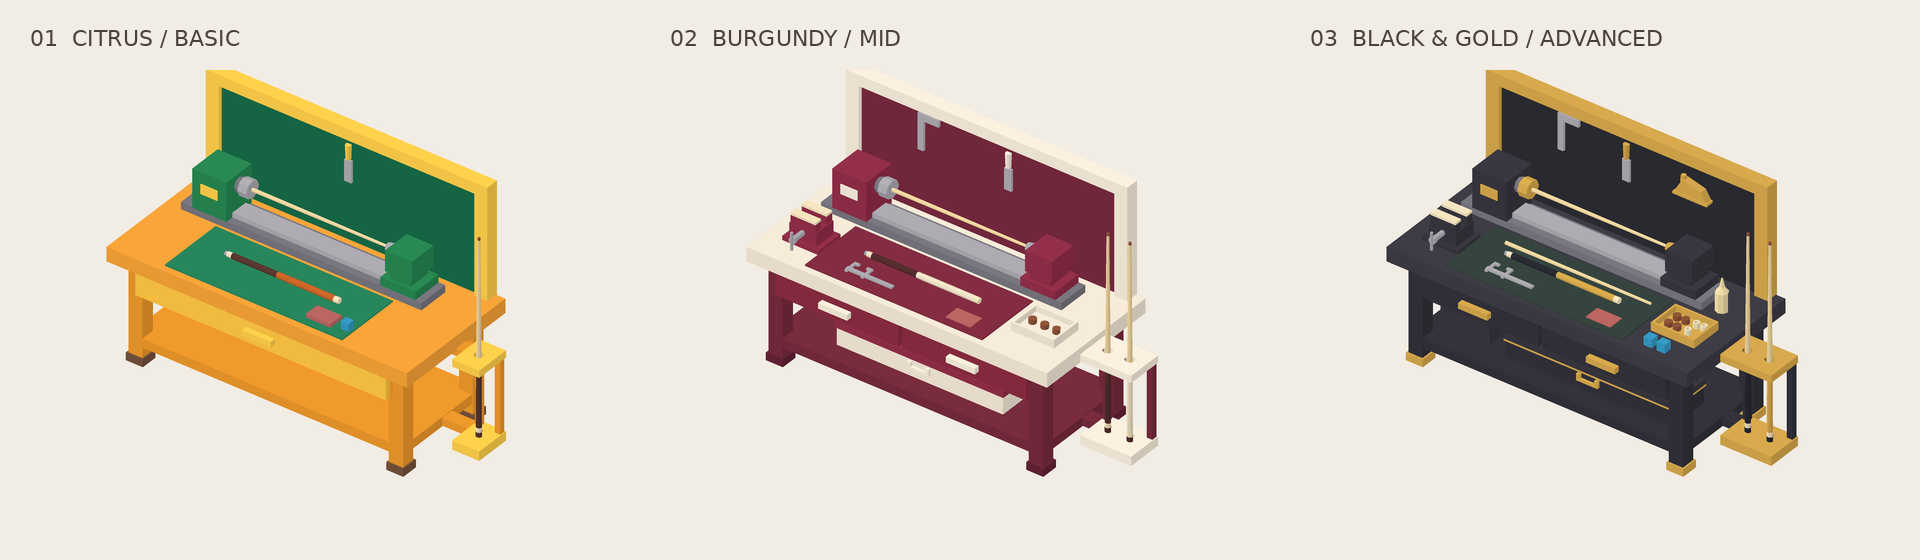
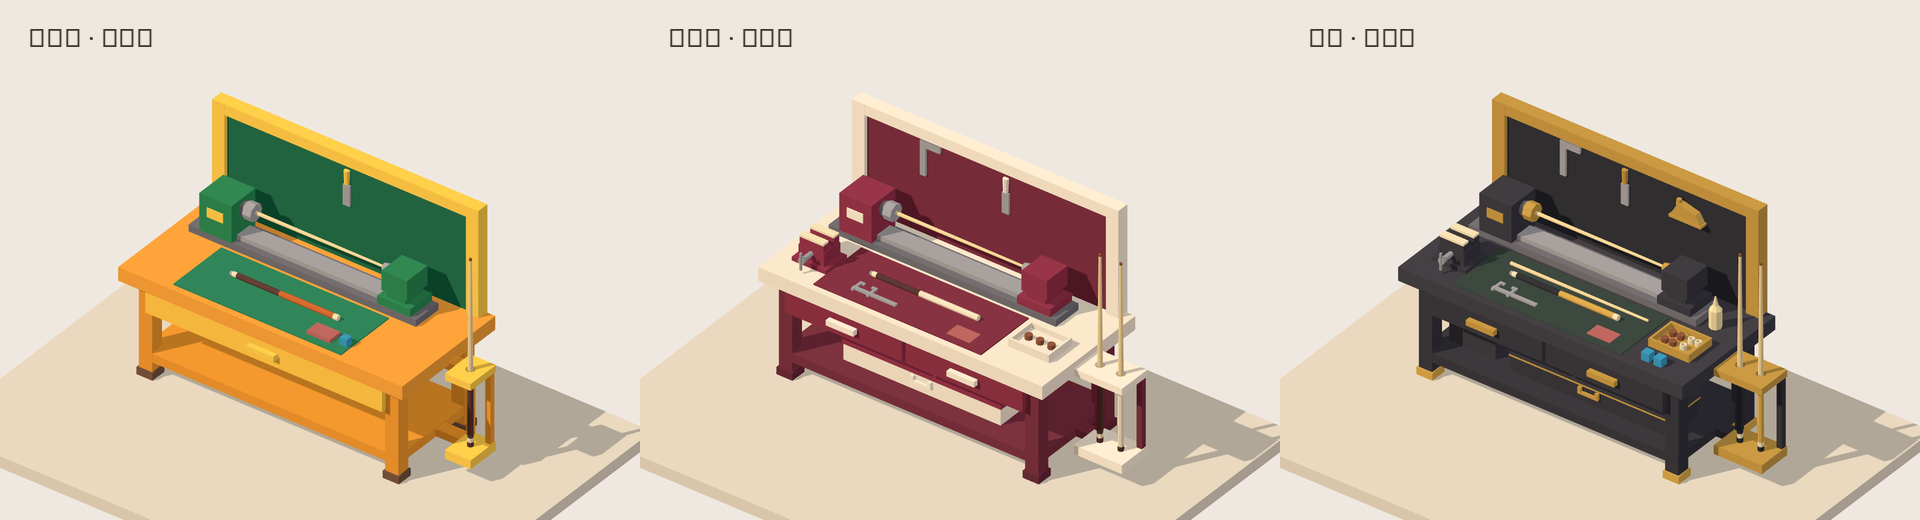
Record verified WebGL views and mobile workshop review

diff --git a/docs/CUE_WORKSHOPS.md b/docs/CUE_WORKSHOPS.md
@@ -2,9 +2,9 @@
 
 根据本次确认的三张低面概念图制作，使用 Three.js / TypeScript 几何体直接构建，没有把概念图贴在平面上，也不依赖外部模型或纹理服务。
 
-![实际网格的三款对照预览](previews/cue-workshops.png)
+![三款工作台的实际 WebGL 截图](previews/cue-workshops.png)
 
-上图直接读取工作台的实际三角网格，通过软件深度缓冲投影生成，仅用于核对造型、遮挡和配色；不代表 WebGL 运行效果或完整界面验收。另已生成六个机位共 18 张临时几何预览，修正了背板与桌面、侧框之间的细缝。
+上图为运行页面的实际 WebGL 截图，使用最终初始轴测机位。背板与桌面、侧框保持闭合衔接，桌脚与地台接触。
 
 ## 入口与复杂度
 
@@ -37,8 +37,10 @@
 
 ## 验证
 
-`tests/cue-workshop.test.ts` 检查三档几何有效性、严格递增且不超过 2,500 面的预算、车床同轴和端点接触、杆架孔/套箍孔的射线通透性、接地和承托关系，以及碰撞和绕行路线。加入后全仓 80 项测试与生产构建通过。
+`tests/cue-workshop.test.ts` 检查三档几何有效性、严格递增且不超过 2,500 面的预算、车床同轴和端点接触、杆架孔/套箍孔的射线通透性、接地和承托关系、碰撞和绕行路线，以及桌面/手机初始镜头下每个顶点都在画面内。加入后全仓 81 项测试与生产构建通过。
 
-当前受控预览浏览器不支持 WebGL，无法在该浏览器内验收。新增 `Cue workshop visual review` 工作流，在 GitHub Actions 的 Chromium/SwiftShader 环境生成三款的轴测、正面、背面、俯视、车床近景、杆架近景，另有三张手机竖屏和一张黑金夜间界面图，共 22 张。截图和错误报告保存在该次运行的 `cue-workshop-review` 临时构建产物，待检查后记录结果。
+`Cue workshop visual review` 工作流在 GitHub Actions 的 Chromium/SwiftShader 环境生成三款的轴测、正面、背面、俯视、车床近景、杆架近景，另有三张手机竖屏和一张黑金夜间界面图，共 22 张。[最终复查](https://github.com/GioGyan90/RoomBoy/actions/runs/42807582362)通过，浏览器错误列表为空，已逐组检查画面；原始截图保存在该次运行的 `cue-workshop-review` 构建产物。
 
-本次本地代码已经提交。向公开远程仓库的推送被自动审批拦截，要求用户对具体公开地址再次确认；尚未合入远程 main，三个新入口还未上线。目标已经从既有项目记录确认是 `https://github.com/GioGyan90/RoomBoy`。收到明确确认后推送特性分支，运行并检查截图流程；再基于远程最新 main 合入，等待 GitHub Pages 部署完成。
+截图对应应用源码 `a936605fd79ed7f9e788eb4ed5e3e338367ca225`；其后的提交仅更新本文、概览截图与[验证报告](previews/cue-workshops-review.json)，不改变运行时代码。工作流还验证了三个工坊入口的切换、默认工作台模式、夜间开关和行走入口。
+
+模型的默认轴测镜头已同时校准桌面和手机比例，保证背板与脚套完整入镜。手机上的旋转摇杆、视图按钮和操作提示分别占用独立区域，截图流程会检查三者不重叠。发布沿用 `GioGyan90/RoomBoy` 原有 main → GitHub Pages 的构建与部署流程。
